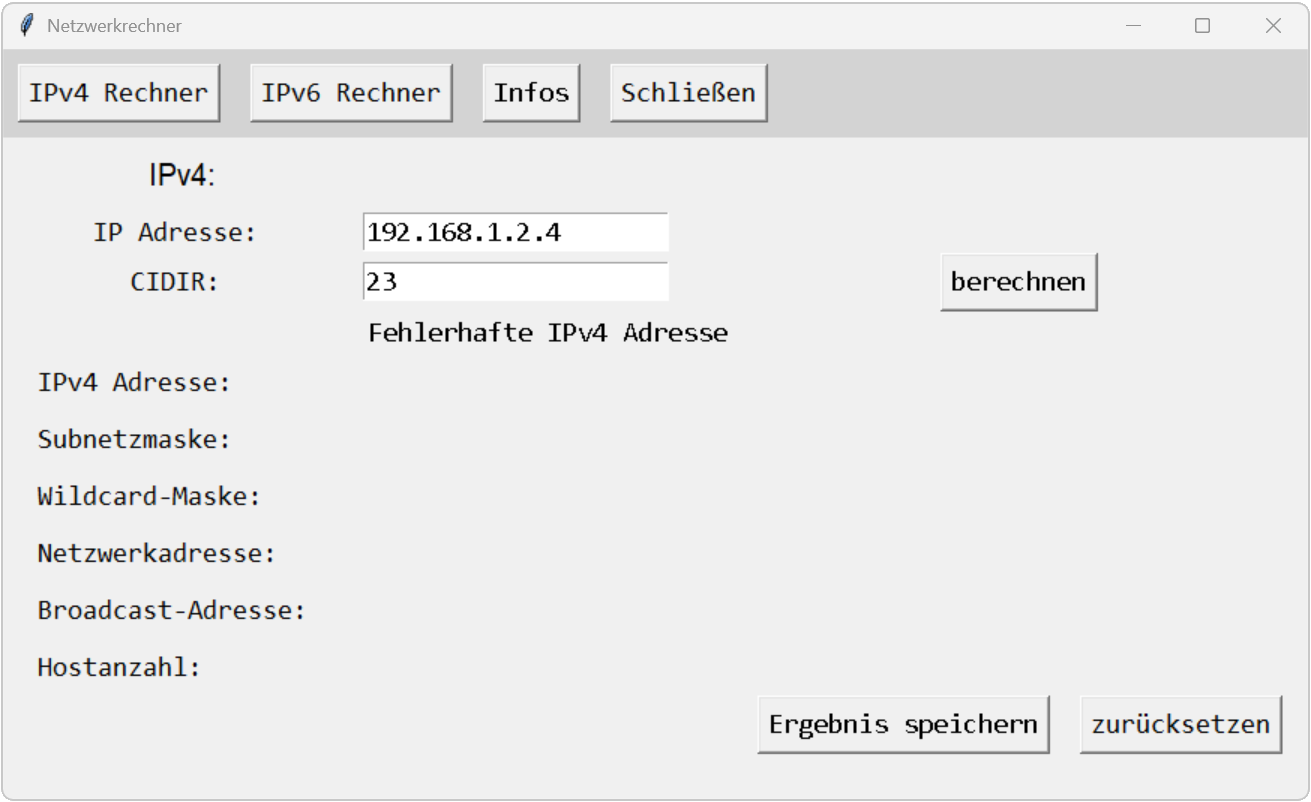
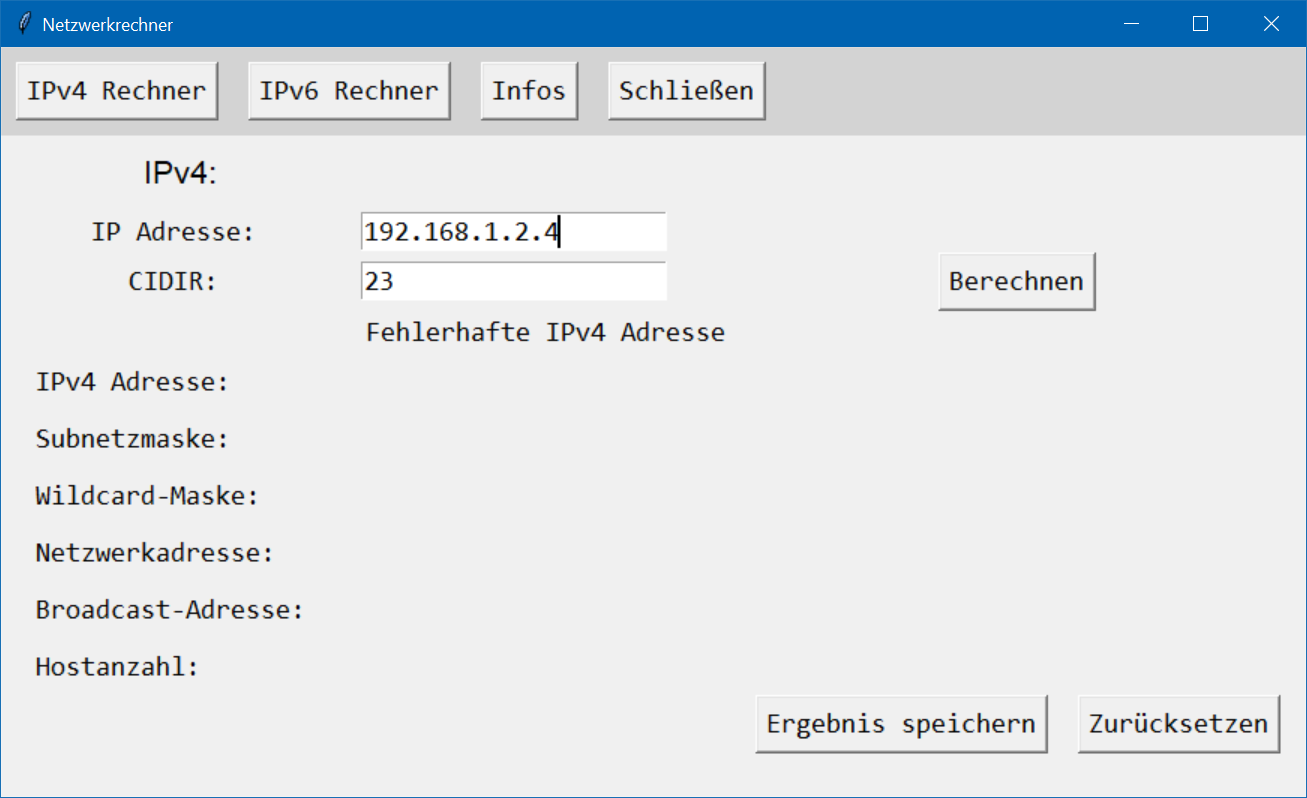
Improved README.md

diff --git a/README.md b/README.md
@@ -1,36 +1,70 @@
 # Projekt: Netzwerkrechner
-Desktop Programm zur Berechnung der Netzwerkadresse, Broadcast-Adresse und Host-Anzahl bei IPv4 durch Angabe der IP-Adresse und CIDR.
-Zusätzlich kann man für IPv6 die Netzwerkadresse, höchste Adresse und Host-Anzahl durch Angabe der IP-Adresse und Präfix berechnen. Außerdem können die Ergebnisse in eine Text Datei gespeichert werden. Erstellt wurde es mit Python und Tkinter. Das ganze wurde ohne den Import eines Netzwerkberechnungsmodul realisiert.
+**Desktop-Anwendung zur Berechnung von IPv4- und IPv6-Netzwerkdaten.** Mit diesem Programm lassen sich unter Angabe einer IP-Adresse und einer CIDR-Notation (bei IPv4) bzw. eines Präfixes (bei IPv6) wichtige Netzwerkinformationen berechnen, darunter:
+- Netzwerkadresse
+- Hostanzahl
+- Broadcast-Adresse (nur IPv4)
+- Höchste IP-Adresse im Bereich (nur IPv6)
+
+Die Ergebnisse können optional in einer Textdatei gespeichert werden. Die Anwendung wurde mit **Python** und **Tkinter** entwickelt und **verzichtet bewusst auf externe Netzwerkberechnungs-Bibliotheken - alle Algorithmen wurden selbst implementiert.**
+
 <div style="text-align: center;">
-<img src="images/ipv4_ausgabe.png" alt="IPv4 Ausgabe" title="IPv4 Ausgabe" style="width:80%; height:auto;">
+<b>Netzwerkrechner: Ausgabe einer IPv4 Berechnung</b> <br>
+<img src="images/ipv4_ausgabe.png" alt="IPv4 Ausgabe" title="IPv4 Ausgabe" style="width:70%; height:auto;">
 </div>
 
+## Inhaltsverzeichnis
+- [Projektvorstellung](#projektvorstellung)
+- [Verwendete Technologien](#verwendete-technologien)
+- [Funktionen](#funktionen)
+- [UML-Sequenzdiagramm](#uml-sequenzdiagramm)
+- [Screenshots](#screenshots)
+- [Installation](#installation)
+- [Lizenz](#lizenz)
 
-## Ziel des Projekts:
-Umsetzung der IP Berechnung als Algorithmus in einen Programm. Die erste Idee dazu diesen Projekt entstand während des Lernfeldes 4 und wurde ansatzweise in C# umgesetzt. Im darauffolgenden Lernfeld 5, in dem es eine Einführung in Python gab. Wurde die Idee zum Netzwerkrechner genutzt, um mit einen interessanten Projekt mit der Sprache Python vertraut zu machen.  
+## Projektvorstellung
+
+Die Idee zu diesem Projekt entstand während des Lernfelds 4, zunächst mit einer einfachen Umsetzung in C#. In Lernfeld 5 wurde es im Rahmen einer Einführung in Python weiterentwickelt.  
+Ziel war es, ein funktionales und lehrreiches Projekt umzusetzen, das grundlegende Netzwerkberechnungen durchführt – **ohne** den Einsatz **externer Bibliotheken**. Stattdessen wurden **alle Berechnungen durch eigene Algorithmen** realisiert. Dabei konnten Klassen, Funktionen und GUI-Elemente in Python vertieft werden. Gleichzeitig wurde das Verständnis für die Berechnung von Netzwerkadressen gefestigt - mit einem praktischen Tool als Ergebnis.   
+Das Programm besteht aus:
+- **einer Hauptklasse zur Steuerung der Anwendung**
+- **je einer Klasse für die Berechnung und Anzeige der IP-Adressen**
+- **einer Klasse zur Speicherung der Ergebnisse als Textdatei**
+- **einer Klasse für Hintergrundinformationen**
+
+Die grafische Oberfläche wurde mit **Tkinter** entwickelt. Eine **integrierte Fehlerbehandlung** sorgt dafür, dass ungültige Eingaben abgefangen und **benutzerfreundliche Rückmeldungen** gegeben werden.  
+Neben den eigenen Algorithmen für die Berechnung ist eine weitere Besonderheit des Programms die Ausgabe der Ergebnisse: Bei IPv4 zusätzlich in **Binärdarstellung**, bei IPv6 in **Kurz- und Langform**.
+
+
 ## Verwendete Technologien
 - **Python 3.13.1**
-- **Tkinter** für die Benutzeroberfläche
-- **save_output** zur Speicherung der Ergbenisse als Textdatei
+- **Tkinter** – GUI-Toolkit für die Benutzeroberfläche
+- **Mermaid** – zur Erstellung des UML-Sequenzdiagramm
+
 ## Funktionen
-- Grafische Benutzeroberfläche für die Ein- und Ausgabe
-- Eingabe der IPv4 Adresse und CIDER oder IPv6 Adresse und Präfix
-- Berechnungen:
+- Intuitive grafische Benutzeroberfläche
+  - Anpassen der Fenstergröße an IPv4- bzw. IPv6-Modus
+- Eingabeunterstützung für:
+  - IPv4-Adressen mit CIDR-Notation
+  - IPv6-Adressen mit Präfix
+- Berechnete Daten:
   - IPv4:
     - Subnetzmaske
     - Wildcard-Maske
     - Netzwerkadresse
     - Broadcast-Adresse
-    - Host-Anzahl
+    - Anzahl möglicher Hosts
   - IPv6:
     - Netzwerkadresse
-    - höchste IP-Adresse
-    - Host-Anzahl
-- Darstellung der Ausgabe von:
+    - Höchste IP-Adresse im Bereich
+    - Anzahl möglicher Hosts
+- Ausgabeformate:
   - IPv4 als Dezimal und Binärzahlen
-  - IPv6 als Hexzahlen in Lang- und Kurform
-- Optionale Speicherung der Ergebnisse als Textdatei
-### UML Sequenzdiagramm
+  - IPv6 als Hexzahlen (Lang- und Kurform)
+- Weitere Funktionen
+  - Optionale Speicherung der Ergebnisse als Textdatei
+  - Optionales Zurücksetzen der Eingaben und Ergebnisse
+
+### UML-Sequenzdiagramm
 
 ```mermaid
    sequenceDiagram
@@ -39,44 +73,59 @@ Umsetzung der IP Berechnung als Algorithmus in einen Programm. Die erste Idee da
     participant IPv4Page as IPv4Page
     participant SaveOutputWindow as SaveOutputWindow
 
-    User ->> Main: start programm
+    User ->> Main: Programm starten
     
     Main ->> Main: mainloop()
     activate Main
-    Main ->> IPv4Page: show Frame
+    Main ->> IPv4Page: IPv4-Seite anzeigen
     activate IPv4Page
-    User ->> IPv4Page: input IPv4 adress
-    User ->> IPv4Page: input CIDIR notation
-    User ->> IPv4Page: press berechnen
+    User ->> IPv4Page: IPv4-Adresse eingeben
+    User ->> IPv4Page: CIDR-Notation eingeben
+    User ->> IPv4Page: "Berechnen" drücken
     
     IPv4Page ->> IPv4Page: ipv4_cal() 
     activate IPv4Page
     IPv4Page ->> IPv4Page: in_one_decimal_string()
     IPv4Page ->> IPv4Page: in_one_binary_string()
-    IPv4Page -->> User: show Results
+    IPv4Page -->> User: Ergebnisse anzeigen
     deactivate IPv4Page
 
     User ->> IPv4Page: Ergebnis speichern
     IPv4Page ->> IPv4Page: open_save_window()
-    IPv4Page ->> SaveOutputWindow: show Window
+    IPv4Page ->> SaveOutputWindow: Speicherfenster öffnen
     activate SaveOutputWindow
-    User ->> SaveOutputWindow: Input filename
-    User ->> SaveOutputWindow: Press speichern
+    User ->> SaveOutputWindow: Dateiname eingeben
+    User ->> SaveOutputWindow: "Speichern" drücken
     SaveOutputWindow ->> SaveOutputWindow: save_output()
-    SaveOutputWindow -->> User: close
+    SaveOutputWindow -->> User: Fenster schließen
     deactivate SaveOutputWindow
     
-    User ->> Main: press Schließen button
+    User ->> Main: "Schließen" drücken
     Main ->> Main: destroy()
-    IPv4Page -->> Main : close
+    IPv4Page -->> Main : beendet
     deactivate IPv4Page
-    Main -->> User: programm close
+    Main -->> User: Programm geschlossen
     deactivate Main
 ```
 
-### Screenshots
+## Screenshots
+### Ausgabe einer IPv6 Berechnung:
 <div style="text-align: center;">
-<img src="images/ipv6_ausgabe.png" alt="ipv6 Ausgabe" title="IPv6 Ausgabe" style="width:80%; height:auto;">
-<img src="images/fehler_ipv4.png" alt="ipv4 Fehlermeldung" title="IPv4 Fehlermeldung" style="width:80%; height:auto;">
-<img src="images/fehler_ipv4.png" alt="ipv6 Fehlermeldung" title="IPv6 Fehlermeldung" style="width:80%; height:auto;">
-</div>
+<img src="images/ipv6_ausgabe.png" alt="IPv6 Ausgabe" title="IPv6 Ausgabe" style="width:70%; height:auto;"></div>
+
+### Ausgabe einer Fehlermeldung bei falscher Benutzereingabe bei IPv6:
+<div style="text-align: center;">
+<img src="images/fehler_ipv6.png" alt="IPv6-Fehlermeldung" title="IPv6-Fehlermeldung" style="width:70%; height:auto;"></div>
+
+### Ausgabe einer Fehlermeldung bei falscher Benutzereingabe bei IPv4:
+<div style="text-align: center;">
+<img src="images/fehler_ipv4.png" alt="IPv6-Fehlermeldung" title="IPv6-Fehlermeldung" style="width:70%; height:auto;"></div>
+
+
+## Lizenz
+Dieses Projekt wurde ausschließlich zu **Lern- und Demonstrationszwecken** entwickelt.  
+Die Nutzung des Quellcodes ist für den privaten, nicht-kommerziellen Gebrauch gestattet   
+
+Eine Weitergabe, Veränderung oder kommerzielle Nutzung ist nur mit ausdrücklicher Genehmigung erlaubt.  
+
+Bei Fragen oder Feedback freue ich mich über eine Nachricht.
